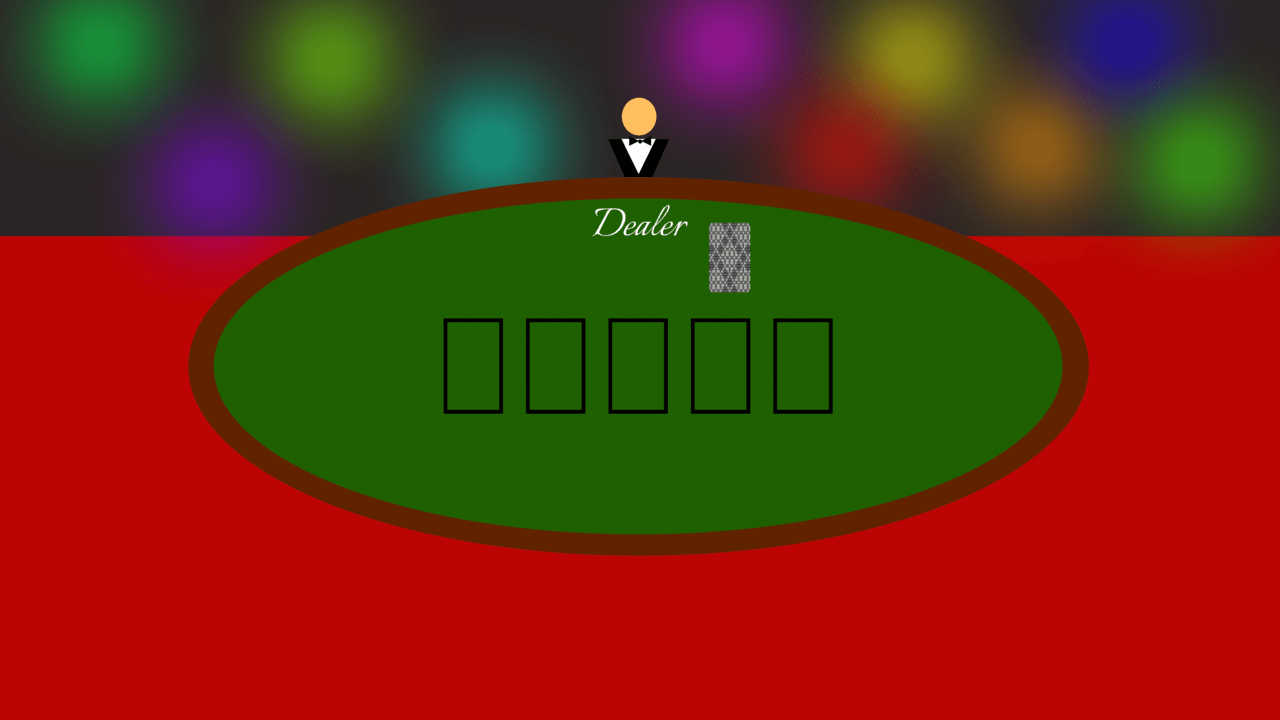
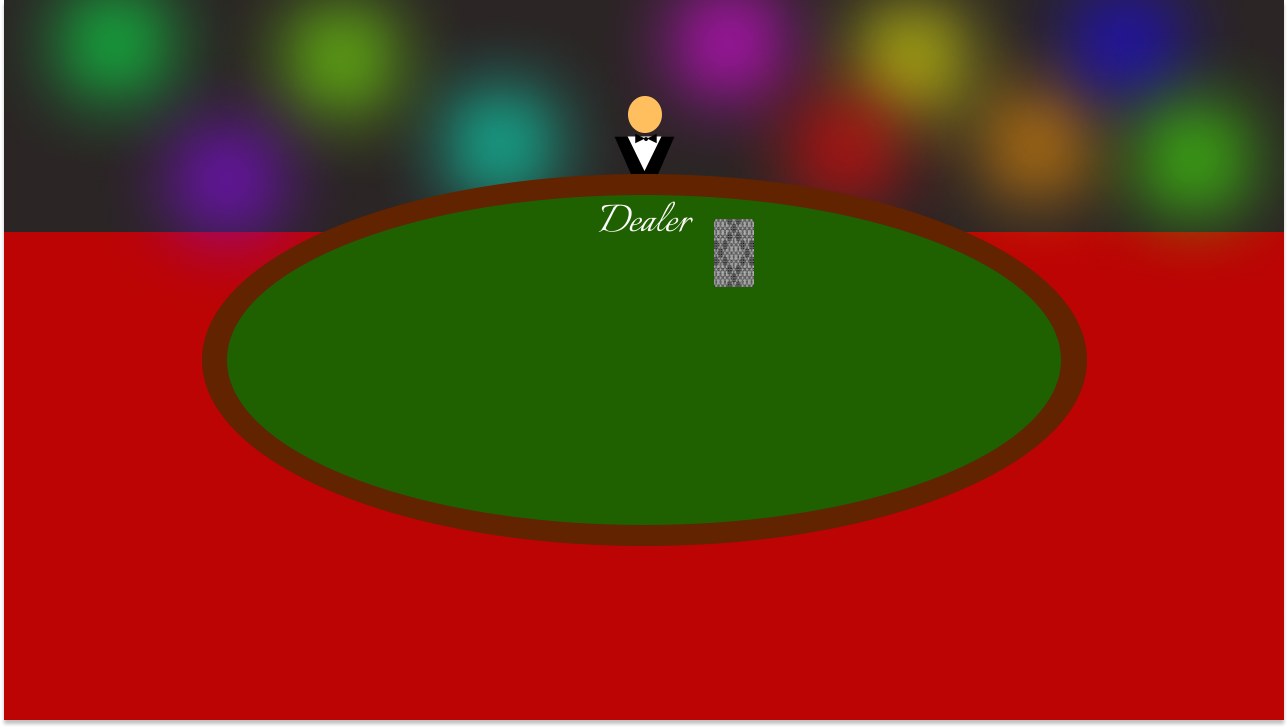
Can now go through single player

diff --git a/school_sanctioned_gambling/src/game/systems.rs b/school_sanctioned_gambling/src/game/systems.rs
@@ -1,8 +1,11 @@
 use bevy::prelude::*;
 use super::components::*;
-use crate::AppState;
+// use crate::AppState;
+use rand::thread_rng;
+use rand::seq::SliceRandom;
 
 pub fn load_game(mut commands: Commands, asset_server: Res<AssetServer>) {
+    commands.insert_resource(init_cards_resource());
     commands.spawn(Camera2dBundle::default()).insert(Camera);
     commands.spawn(SpriteBundle {
         texture: asset_server.load("game_screen.png"),
@@ -12,7 +15,7 @@ pub fn load_game(mut commands: Commands, asset_server: Res<AssetServer>) {
     spawn_buttons(&mut commands, &asset_server);
 }
 
-fn spawn_buttons(commands: &mut Commands, asset_server: &Res<AssetServer>) {
+pub fn spawn_buttons(commands: &mut Commands, asset_server: &Res<AssetServer>) {
     commands
         .spawn(NodeBundle {
             style: Style {
@@ -32,6 +35,8 @@ fn spawn_buttons(commands: &mut Commands, asset_server: &Res<AssetServer>) {
                     width: Val::Px(230.0),
                     height: Val::Px(90.0),
                     border: UiRect::all(Val::Px(3.0)),
+                    align_self: AlignSelf::Center,
+                    justify_self: JustifySelf::Center,
                     // horizontally center child text
                     justify_content: JustifyContent::Center,
                     // vertically center child text
@@ -80,6 +85,8 @@ pub fn tear_down_game_screen(
 }
 
 pub fn check_button_interaction(
+    mut commands: Commands,
+    asset_server: Res<AssetServer>,
     mut interaction_query: Query<
     (
         &Interaction,
@@ -88,14 +95,16 @@ pub fn check_button_interaction(
     ),
     (Changed<Interaction>, With<CheckButton>),
     >,
-    mut app_state_next_state: ResMut<NextState<AppState>>,
+    player_card_query: Query<&PlayerCards>,
+    community_query: Query<&CommunityCards>,
+    mut deck: ResMut<Deck>,
 ) {
     for (interaction, mut color, mut border_color) in &mut interaction_query {
         match *interaction {
             Interaction::Pressed => {
+                deal_cards(&mut commands, &asset_server, &community_query, &player_card_query, &mut deck,);
                 *color = Color::rgb(0.075, 0.118, 0.502).into();
                 border_color.0 = Color::RED;
-                app_state_next_state.set(AppState::MainMenu);
             }
             Interaction::Hovered => {
                 *color = Color::rgb(0.133, 0.188, 0.659).into();
@@ -109,7 +118,18 @@ pub fn check_button_interaction(
     }
 }
 
-// this causes a bunch of unused code warnings for now
+
+pub struct Deck {
+    cards: Vec<Card>
+}
+
+pub fn init_cards_resource() -> Deck {
+    Deck {
+        cards: init_cards(),
+    }
+}
+impl Resource for Deck {
+}
 
 #[derive(Copy, Clone, PartialEq)]
 enum Suit {
@@ -136,8 +156,22 @@ impl Card {
     }
 
     fn to_string(&self) -> String {
-        String::from(format!("Card({id}, {suit}, {value})", 
-        id=self.card_id, value=self.value, suit={
+        let card_value = if self.value < 11 && self.value > 1 {
+            let card_value_str = self.value.to_string();
+            card_value_str
+        } else if self.value == 11 {
+            "Jack of".to_string()
+        } else if self.value == 12 {
+            "Queen of".to_string()
+        } else if self.value == 13 {
+            "King of".to_string()
+        } else {
+            "Ace of".to_string()
+        };
+
+        String::from(format!("{value} {suit}", 
+        value={card_value}
+        ,suit={
             if self.suit == Suit::Hearts {
                 "Hearts"
             } else if self.suit == Suit::Diamonds {
@@ -150,7 +184,6 @@ impl Card {
         }))
     }
 }
-
 
 fn init_cards() -> Vec<Card> {
     let mut cards: Vec<Card> = Vec::with_capacity(52);
@@ -165,31 +198,119 @@ fn init_cards() -> Vec<Card> {
     cards
 }
 
-fn display_cards(cards: Vec<Card>) {
-    for card in cards {
-        println!("{}", card.to_string());
-    }
-}
-
-fn shuffle_cards(mut cards: Vec<Card>) {
+fn shuffle_cards(cards: &mut Vec<Card>) {
     cards.shuffle(&mut thread_rng());        
 }
 
-fn deal_cards(player_count: u8, cards: Vec<Card>) -> Vec<Vec<Card>> {
-    // this honestly needs like a player struct or something to make any sense
+fn deal_hands(player_count: u8, cards: &mut Vec<Card>) -> Vec<Vec<Card>> {
     let mut result: Vec<Vec<Card>> = Vec::with_capacity(player_count as usize);
-    for i in 0..player_count-1 {
-        let hand: Vec<Card> = vec![ cards.pop(), cards.pop() ];
+    for _ in 0..player_count {
+        let hand: Vec<Card> = cards.drain(0..2).collect();
         result.push(hand);
     }
     result
 }
 
-pub fn test_dealing() -> i32 {
-    let cards: Vec<Card> = init_cards();
-    display_cards(cards.clone());
-    shuffle_cards(cards.clone());
-    display_cards(cards.clone());
-    deal_cards(2, cards.clone());
-    0
+fn deal_community_cards(cards: &mut Vec<Card>, community_query: &Query<&CommunityCards>,) -> Vec<Vec<Card>> {
+    let mut result: Vec<Vec<Card>> = Vec::with_capacity(5);
+    if community_query.iter().count() == 0 {
+        let flop: Vec<Card> = cards.drain(0..3).collect();
+        result.push(flop);
+    } else if community_query.iter().count() == 3 {
+        let river = cards.drain(0..1).collect();
+        result.push(river)
+    } else if community_query.iter().count() == 4 {
+        let turn = cards.drain(0..1).collect();
+        result.push(turn)
+    }
+    result
+}
+
+fn deal_cards(commands: &mut Commands, asset_server: &Res<AssetServer>, community_query: &Query<&CommunityCards>, player_card_query: &Query<&PlayerCards>, deck: &mut Deck) {
+    let cards = &mut deck.cards;
+    if player_card_query.is_empty() {
+        shuffle_cards(cards);
+        let hands = deal_hands(1, cards);
+        spawn_player_cards(commands, &asset_server, hands);
+    }else if community_query.iter().count() < 5 {
+        let flop = deal_community_cards(cards, community_query);
+        spawn_community_cards(commands, &asset_server, flop, community_query);
+    }
+    println!("Amount of cards left: {}", cards.len());
+}
+
+fn spawn_player_cards(commands: &mut Commands, asset_server: &Res<AssetServer>, hands: Vec<Vec<Card>>) {
+    for hand in hands {
+        for (index, card) in hand.iter().enumerate() {
+            let left_shift = 1280. - (((index as f32) + 1.) * 230.);
+            commands.spawn(ButtonBundle {
+                style: Style {
+                    position_type: PositionType::Absolute,
+                    top: Val::Px(600.),
+                    left: Val::Px(left_shift),
+                    width: Val::Px(230.0),
+                    height: Val::Px(90.0),
+                    border: UiRect::all(Val::Px(3.0)),
+                    align_self: AlignSelf::Center,
+                    justify_self: JustifySelf::Center,
+                    // horizontally center child text
+                    justify_content: JustifyContent::Center,
+                    // vertically center child text
+                    align_items: AlignItems::Center,
+                    ..default()
+                },
+                border_color: BorderColor(Color::BLACK),
+                background_color: Color::rgb(0.071, 0.141, 0.753).into(),
+                ..default()
+            }).insert(PlayerCards)
+            .with_children(|parent| {
+                parent.spawn(TextBundle::from_section(
+                    card.to_string(),
+                    TextStyle {
+                        font: asset_server.load("fonts/Lato-Black.ttf"),
+                        font_size: 35.0,
+                        color: Color::rgb(0.9, 0.9, 0.9),
+                    },
+                ));
+            });
+        }
+    }
+}
+
+fn spawn_community_cards(commands: &mut Commands, asset_server: &Res<AssetServer>, com_cards: Vec<Vec<Card>>, community_query: &Query<&CommunityCards>) {
+    for cards in com_cards {
+        for (index,card) in cards.iter().enumerate() {
+            let left_shift = 364. + ((((community_query.iter().count() as f32) + 1.) * ((index  as f32) + 1.)) * 81.);
+            commands.spawn(ButtonBundle {
+                style: Style {
+                    position_type: PositionType::Absolute,
+                    top: Val::Px(317.),
+                    left: Val::Px(left_shift),
+                    width: Val::Px(58.0),
+                    height: Val::Px(93.0),
+                    border: UiRect::all(Val::Px(3.0)),
+                    align_self: AlignSelf::Center,
+                    justify_self: JustifySelf::Center,
+                    // horizontally center child text
+                    justify_content: JustifyContent::Center,
+                    // vertically center child text
+                    align_items: AlignItems::Center,
+                    ..default()
+                },
+                border_color: BorderColor(Color::BLACK),
+                background_color: Color::rgb(0.071, 0.141, 0.753).into(),
+                ..default()
+            }).insert(CommunityCards)
+            .with_children(|parent| {
+                parent.spawn(TextBundle::from_section(
+                    card.to_string(),
+                    TextStyle {
+                        font: asset_server.load("fonts/Lato-Black.ttf"),
+                        font_size: 13.0,
+                        color: Color::rgb(0.9, 0.9, 0.9),
+                    },
+                ));
+            });
+        }
+    }
 }

diff --git a/school_sanctioned_gambling/src/game/components.rs b/school_sanctioned_gambling/src/game/components.rs
@@ -10,4 +10,13 @@ pub struct CheckButton;
 pub struct NBundle;
 
 #[derive(Component)]
+pub struct NCards;
+
+#[derive(Component)]
 pub struct Camera;
+
+#[derive(Component)]
+pub struct PlayerCards;
+
+#[derive(Component)]
+pub struct CommunityCards;
